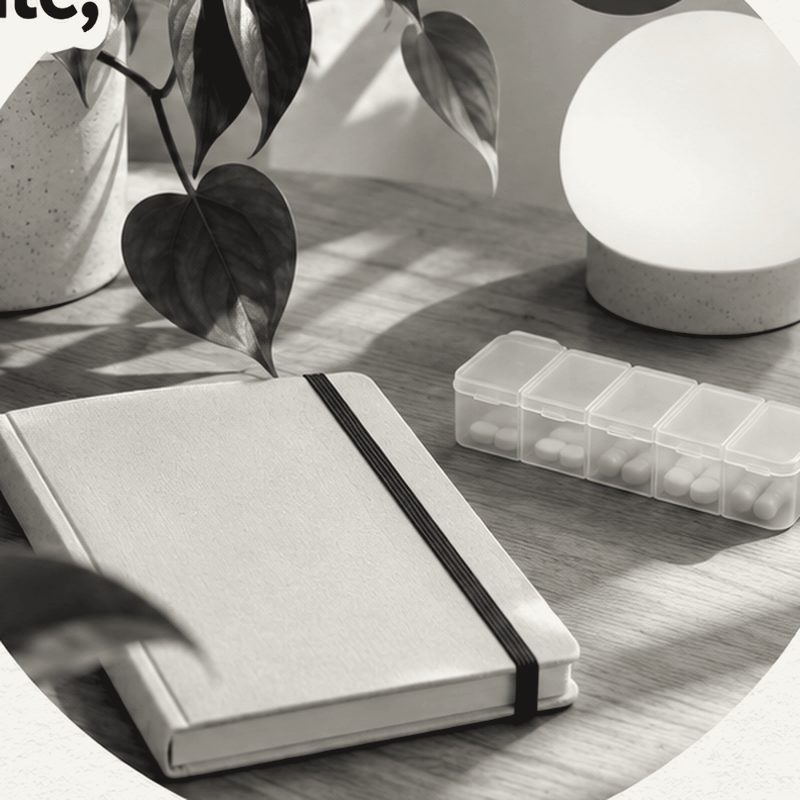
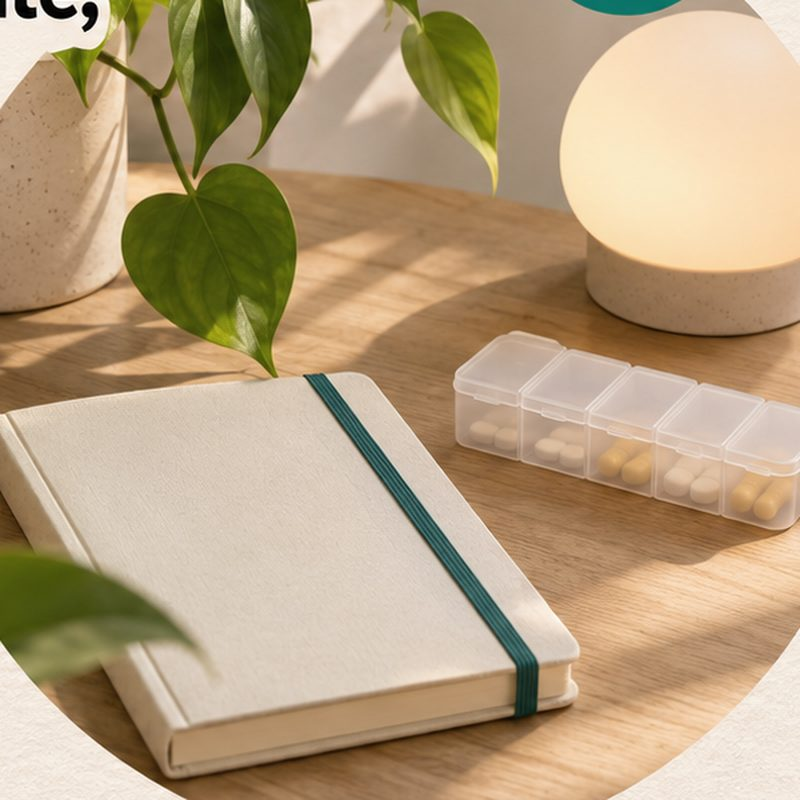
Fotos de los casos en color
Claude-Session: https://claude.ai/code/session_01CQViAxg2B9hdx2x9x52D3z

diff --git a/_fuente/imagenes.py b/_fuente/imagenes.py
@@ -1,5 +1,4 @@
-# Recorta la foto de cada imagen original (_fuente/imagenes/) y le aplica el tratamiento de marca:
-# monocromo cálido (tinta → papel) para que el único color de la web sean los acentos azul cielo y lavanda.
+# Recorta la foto de cada imagen original (_fuente/imagenes/), sin el texto ni los adornos que traían.
 # Uso: python3 _fuente/imagenes.py  → genera img/<caso>.jpg (800×800; la web los recorta en círculo).
 import os
 from PIL import Image, ImageOps, ImageEnhance
@@ -10,6 +9,6 @@ CROPS = {"caso-energia": (1225, 350, 260), "caso-ia": (1140, 610, 270), "caso-fa
 os.makedirs(OUT, exist_ok=True)
 for slug, (cx, cy, r) in CROPS.items():
     im = Image.open(os.path.join(D, "imagenes", slug + ".png")).convert("RGB").crop((cx-r, cy-r, cx+r, cy+r)).resize((800, 800), Image.LANCZOS)
-    g = ImageEnhance.Contrast(ImageOps.autocontrast(ImageOps.grayscale(im), cutoff=1)).enhance(1.08)
-    ImageOps.colorize(g, black=(24, 23, 22), white=(246, 244, 238), mid=(138, 134, 126)).save(os.path.join(OUT, slug + ".jpg"), quality=82, optimize=True, progressive=True)
+    # En color (decisión de Gema, 17 nov 2026), con la saturación algo contenida para que las cinco convivan
+    ImageEnhance.Color(im).enhance(0.88).save(os.path.join(OUT, slug + ".jpg"), quality=82, optimize=True, progressive=True)
 print("ok")

diff --git a/README.md b/README.md
@@ -4,6 +4,6 @@ Web personal (portfolio) publicada con GitHub Pages.
 
 - El contenido y la estructura viven en `_fuente/gen.py` (la foto, en `_fuente/photo.txt`).
 - Para cambiar algo: editar `_fuente/gen.py` y ejecutar `python3 _fuente/gen.py`. Genera `index.html`, las páginas de caso y `foto.jpg` en la raíz.
-- Imágenes de los casos: originales en `_fuente/imagenes/`; `python3 _fuente/imagenes.py` las recorta y les da el tratamiento monocromo de marca en `img/`.
+- Imágenes de los casos: originales en `_fuente/imagenes/`; `python3 _fuente/imagenes.py` las recorta en `img/`.
 - Los estilos están en `styles.css` (sistema "Luz de cumbre", v0.5).
 - Cada cambio que llega a la rama `main` se publica solo en uno o dos minutos.
